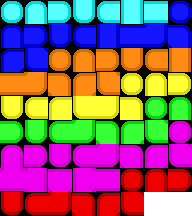
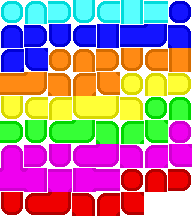
V0.2.11

Changed region(s): [[0.0, 0.0, 1.0, 1.0]]

diff --git a/tetra.js b/tetra.js
@@ -34,7 +34,10 @@ const officialSkins = [
     "skins/snes.json",
     "skins/tiny.json",
     "skins/wireframe.json",
-    "skins/cursed.json"
+    "skins/cursed.json",
+    "skins/brown.json",
+    "skins/mine.json",
+    "skins/tinycursedrounded.json"
 ];
 const G = {};
 G.display = document.getElementById('score');
@@ -819,7 +822,7 @@ function main() {
                 }
                 let atlasKey = G.grid[x][y].type;
                 if (!G.connectedTextures) atlasKey = atlasKey.replace(/[rlud]+/, '');
-                ctx.drawImage(G.img, G.atlas[atlasKey][0] * 24, G.atlas[atlasKey][1] * 24, 24, 24, x * (cellSize), (G.grid[x].length - y - 19) * (cellSize), cellSize, cellSize);
+                ctx.drawImage(G.img, G.atlas[atlasKey][0] * G.skin.tileSize, G.atlas[atlasKey][1] * G.skin.tileSize, G.skin.tileSize, G.skin.tileSize, x * (cellSize), (G.grid[x].length - y - 19) * (cellSize), cellSize, cellSize);
                 ctx.globalAlpha = 1;
             } catch (err) {
                 //debug.innerHTML = err.stack;
@@ -955,7 +958,7 @@ function drawNext() {
         for (let x = 0; x < G.pieces[G.next[n]].width; x++) for(let y = 0; y < G.pieces[G.next[n]].height; y++) {
             let atlasKey = G.pieces[G.next[n]].shape[x][y];
             if (!G.connectedTextures) atlasKey = atlasKey.replace(/[rlud]+/, "");
-            if (G.pieces[G.next[n]].shape[x][y] != " ") nextCtx.drawImage(G.img, G.atlas[atlasKey][0] * 24, G.atlas[atlasKey][1] * 24, cellSize, cellSize, (nextStartLeft + x) * cellSize, (nextStartTop + (G.pieces[G.next[n]].height - y - 1 + (n * 3))) * cellSize, cellSize, cellSize);
+            if (G.pieces[G.next[n]].shape[x][y] != " ") nextCtx.drawImage(G.img, G.atlas[atlasKey][0] * G.skin.tileSize, G.atlas[atlasKey][1] * G.skin.tileSize, G.skin.tileSize, G.skin.tileSize, (nextStartLeft + x) * cellSize, (nextStartTop + (G.pieces[G.next[n]].height - y - 1 + (n * 3))) * cellSize, cellSize, cellSize);
         }
         if (G.mode == 1) break;
     }
@@ -1089,7 +1092,7 @@ document.addEventListener('keydown', (e) => {
         for (let x = 0; x < G.pieces[G.hold].width; x++) for(let y = 0; y < G.pieces[G.hold].height; y++) {
             let atlasKey = G.pieces[G.hold].shape[x][y];
             if (!G.connectedTextures) atlasKey = atlasKey.replace(/[rlud]+/, '');
-            if (G.pieces[G.hold].shape[x][y] != " ") holdCtx.drawImage(G.img, G.atlas[atlasKey][0] * 24, G.atlas[atlasKey][1] * 24, 24, 24, (holdStartLeft + x) * cellSize, (holdStartTop + (G.pieces[G.hold].height - y - 1)) * cellSize, cellSize, cellSize);
+            if (G.pieces[G.hold].shape[x][y] != " ") holdCtx.drawImage(G.img, G.atlas[atlasKey][0] * G.skin.tileSize, G.atlas[atlasKey][1] * G.skin.tileSize, G.skin.tileSize, G.skin.tileSize, (holdStartLeft + x) * cellSize, (holdStartTop + (G.pieces[G.hold].height - y - 1)) * cellSize, cellSize, cellSize);
         }
         G.holdable = false;
         G.stats.actions[G.stats.pieces.length - 1]++;

diff --git a/index.html b/index.html
@@ -28,7 +28,7 @@
                 <h3 style="opacity: 0">T-SPIN DOUBLE MINI</h3>
             </div>
         </div><br>
-        <p>V0.2.10</p>
+        <p>V0.2.11</p>
         <p id="debug" style="display:none">DEBUG</p>
         <button id="pause" onclick="pause()">PAUSE</button><br>
         Starting Level: <input id="start-level" type="number" max="29" value="0"><br>
@@ -67,6 +67,9 @@
                         <option value="skins/tiny.json">Tiny</option>
                         <option value="skins/rounded.json">Minimalist Rounded</option>
                         <option value="skins/cursed.json">Cursed</option>
+                        <option value="skins/tinycursedrounded.json">Rounded Tiny Cursed</option>
+                        <option value="skins/mine.json">CraftMine</option>
+                        <option value="skins/brown.json">Brown</option>
                     </optgroup>
                     <optgroup label="Retro Inspired">
                         <option value="skins/nes.json">NES</option>
